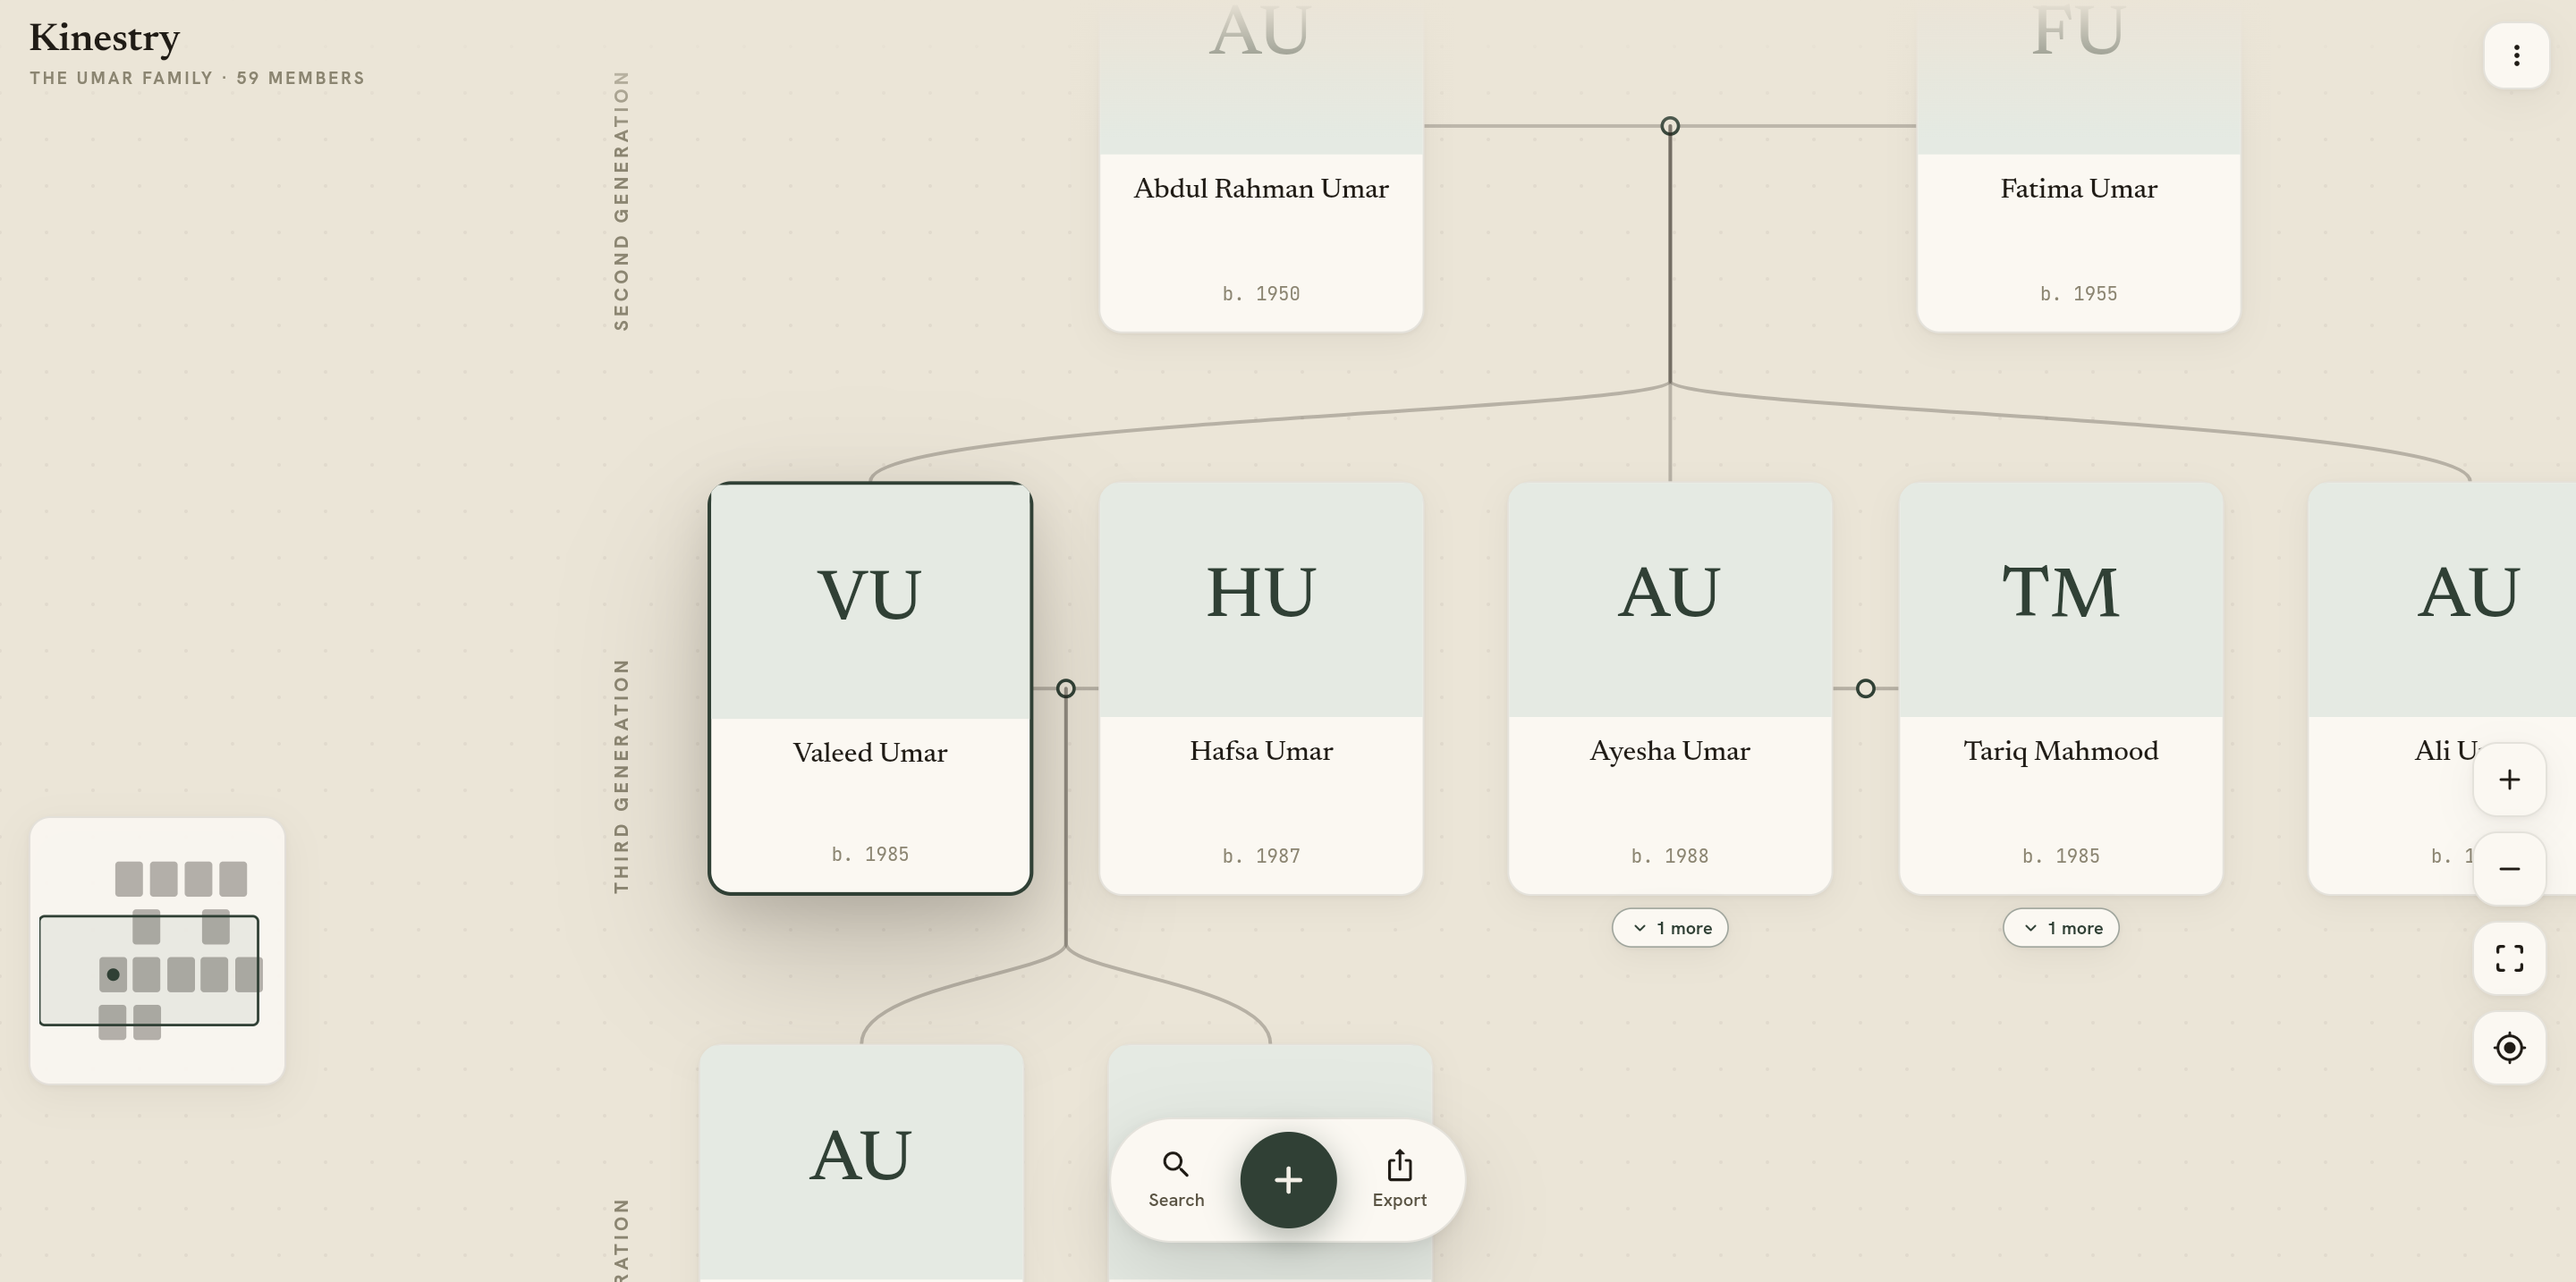
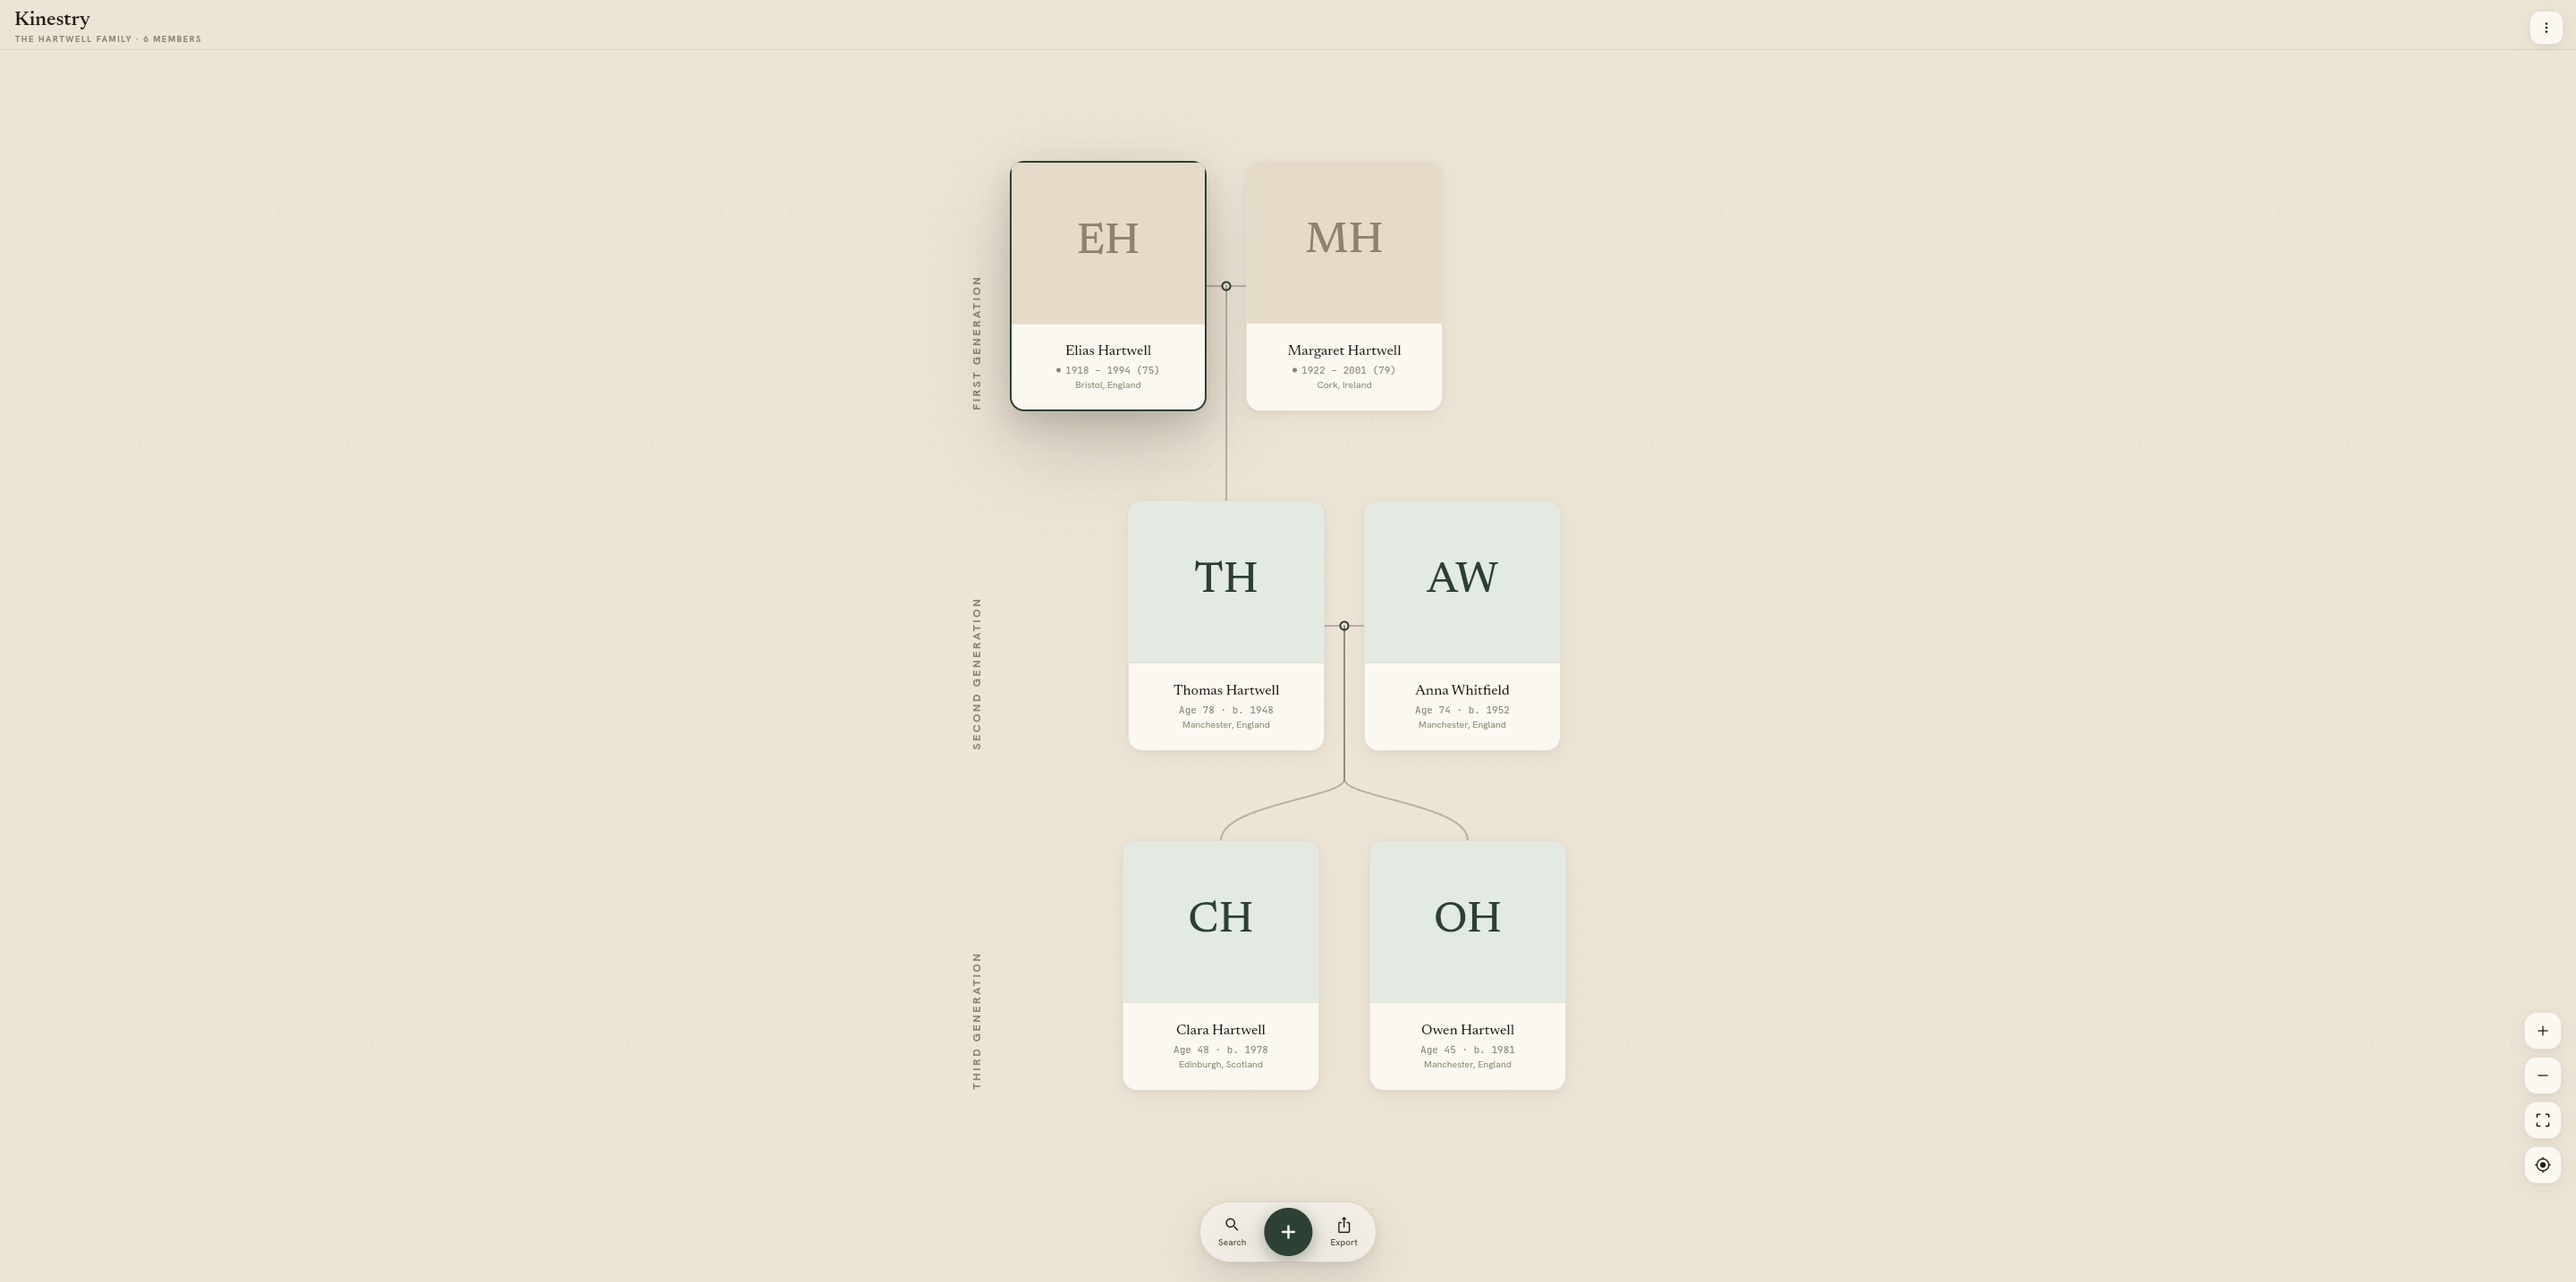
The Desktop Mode shot is the demo family, and two claims are measured
The screenshot in the Desktop Mode section was a capture of a real family's
tree - 59 members, full names and birth years - public since June. Replaced
with the same view of the Hartwell demo tree, captured from a real paired
session on 1.1.7.

Two lines repeated numbers nobody could trace. "Tested past 400 people" is
now "a family of 530 lays out in milliseconds", which is what the layout
service did when it was measured today; and the export card now says a few
hundred fit on one page while a wider tree prints a branch at a time, which
is what the app actually refuses with (272 printed, 322 did not). Backups
are per tree since 1.1.7.

The film is linked, never embedded: an embedded player would load a
third-party script onto a page that promises no trackers.

diff --git a/index.html b/index.html
@@ -36,6 +36,8 @@
   h1 em{font-style:italic;color:var(--pine)}
   .lede{font-size:18px;color:var(--ink2);max-width:46ch}
   .cta{display:flex;align-items:center;gap:18px;margin-top:34px;flex-wrap:wrap}
+  .cta .quiet{color:var(--ink3);text-decoration:none;border-bottom:1px solid currentColor;font-size:15px;align-self:center}
+  .cta .quiet:hover{color:var(--pine)}
   .soon{font-family:var(--mono);font-size:12.5px;color:var(--ink3)}
   .soon a{color:var(--ochre);text-decoration:none;border-bottom:1px solid color-mix(in srgb, var(--ochre) 40%, transparent)}
   /* load reveal */
@@ -253,6 +255,9 @@
       privately, forever on your device. No cloud. No account. No subscription.</p>
       <div class="cta rise d5">
         <a class="pill" href="https://play.google.com/store/apps/details?id=com.kinestry.kinestry">Download on Google Play</a>
+        <!-- A link, never an embed: an embedded player would load a third-party
+             script on a page that promises no trackers. -->
+        <a class="quiet" href="https://youtu.be/6aXaBgpz9LA" rel="noopener">Watch the 30-second film</a>
       </div>
       <p class="kin" id="kin" aria-live="polite">Tap two people to see how they're related.</p>
     </div>
@@ -297,7 +302,8 @@
         <div class="entry">
           <h3>A canvas like paper</h3>
           <p>Warm tones, classic serif names, connectors drawn the way you'd draw them by
-          hand. Hundreds of relatives stay smooth — built and tested past 400 people.</p>
+          hand. Hundreds of relatives stay smooth — a family of 530 lays out in
+          milliseconds.</p>
         </div>
         <div class="entry">
           <h3>Kinship, explained</h3>
@@ -340,12 +346,16 @@
           <p>Export an elegant vector PDF to print as a poster, a high-resolution image
           for the family group chat, or GEDCOM — the universal format, so you're never
           locked in. Exports keep the card style you chose, so the photo you framed is
-          the photo that prints.</p>
+          the photo that prints. A few hundred people fit on a single page; a tree
+          wider than that prints a branch at a time, and the app says so before it
+          tries.</p>
         </div>
         <div class="entry">
           <h3>Backups you own</h3>
           <p>One tap writes a complete backup — photos included — to a file on your
-          phone. Restore any time, or carry your whole tree to a new device.</p>
+          phone. Each tree keeps its own, so "last backed up" always means the family
+          you are looking at. Restore any time, or carry your whole tree to a new
+          device.</p>
         </div>
       </div>
     </div>
